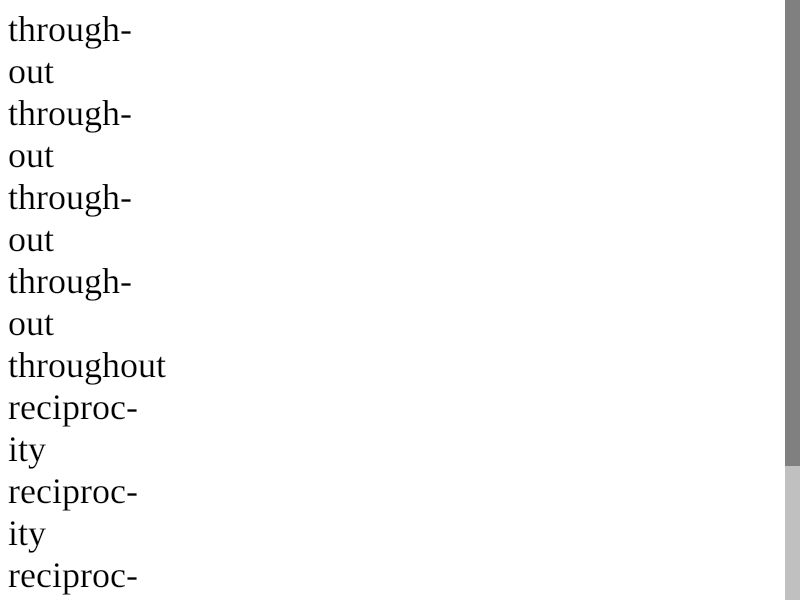
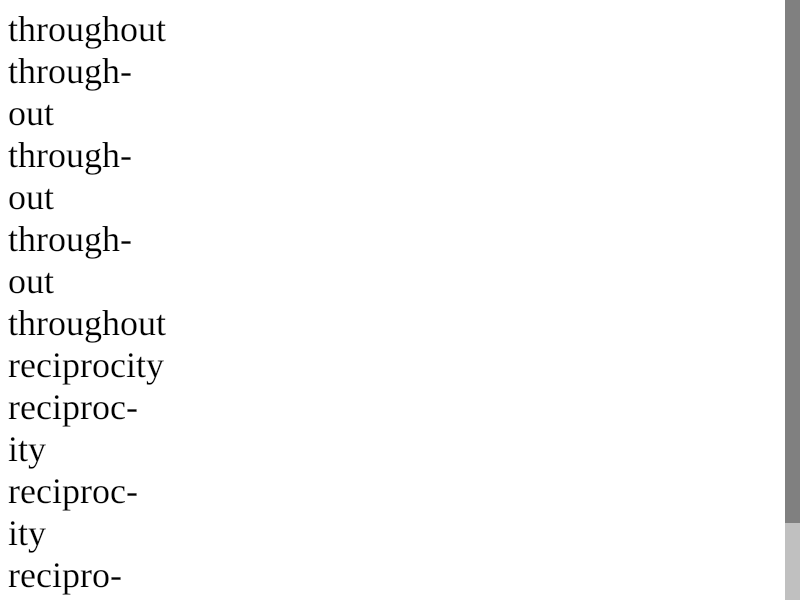
Only hyphenate text for which there is a language specified https://bugs.webkit.org/show_bug.cgi?id=193003
Reviewed by Alex Christensen.

The spec https://drafts.csswg.org/css-text/#hyphens-property says:

"Authors should correctly tag their content’s language (e.g. using the
HTML lang attribute or XML xml:lang attribute) in order to obtain
correct automatic hyphenation."

There's also a dedicated WPT for this:
`imported/w3c/web-platform-tests/css/css-text/hyphens/hyphens-auto-001.html`

This patch makes WebKit follow the spec.

* LayoutTests/TestExpectations:
* LayoutTests/editing/spelling/spelling-marker-includes-hyphen-expected.html:
* LayoutTests/editing/spelling/spelling-marker-includes-hyphen.html:
* LayoutTests/fast/inline/hyphenation-when-overflow-wrap-is-break-word-expected.html:
* LayoutTests/fast/inline/hyphenation-when-overflow-wrap-is-break-word.html:
* LayoutTests/fast/text/simple-line-hyphens-with-text-align.html:
* LayoutTests/fast/text/simple-line-hyphens-with-word-letter-spacing.html:
* LayoutTests/fast/text/simple-line-layout-hyphen-limit-after.html:
* LayoutTests/fast/text/simple-line-layout-hyphen-limit-before.html:
* LayoutTests/fast/text/simple-line-layout-hyphen-limit-lines.html:
* LayoutTests/fast/text/simple-line-layout-hyphenation-constrains.html:
* LayoutTests/platform/gtk/TestExpectations:
* LayoutTests/platform/gtk/fast/text/hyphenate-locale-expected.png:
* LayoutTests/platform/gtk/fast/text/hyphenate-locale-expected.txt:
* LayoutTests/platform/ios/TestExpectations:
* LayoutTests/platform/mac-wk2/TestExpectations:
[…]

diff --git a/LayoutTests/platform/wpe/imported/w3c/web-platform-tests/css/css-text/hyphens/hyphenate-character-002-expected.html b/LayoutTests/platform/wpe/imported/w3c/web-platform-tests/css/css-text/hyphens/hyphenate-character-002-expected.html
@@ -1,0 +1,18 @@
+<!DOCTYPE html>
+<meta charset="utf-8">
+<title>CSS Text reference: hyphenate-character</title>
+<link rel="author" title="Jonathan Kew" href="mailto:jkew@mozilla.com">
+<style>
+div {
+  font: 16px monospace;
+}
+</style>
+
+<p>Test passes if the words below are broken at hyphenation positions but <b>no visible hyphens appear</b>.
+
+<div lang="en">
+implementation<br><br>
+initialization<br><br>
+realization<br><br>
+hyphenation
+</div>

diff --git a/LayoutTests/platform/wpe/fast/inline/hyphenation-when-overflow-wrap-is-break-word-expected.html b/LayoutTests/platform/wpe/fast/inline/hyphenation-when-overflow-wrap-is-break-word-expected.html
@@ -1,0 +1,9 @@
+<style>
+div {
+  font-size: 16px;
+  border: 1px solid green;
+  width: 50px;
+  -webkit-hyphens: auto;
+}
+</style>
+<div lang="en">Autom<br>atic<br>hyphen<br>ation<br>opportu<br>nities<br>overrid<br>e<br>arbitrar<br>y<br>position<br>s</div>

diff --git a/LayoutTests/fast/inline/hyphenation-when-overflow-wrap-is-break-word.html b/LayoutTests/fast/inline/hyphenation-when-overflow-wrap-is-break-word.html
@@ -8,4 +8,4 @@ div {
   overflow-wrap: break-word;
 }
 </style>
-<div>Automatic hyphenation opportunities override arbitrary positions</div>
+<div lang="en">Automatic hyphenation opportunities override arbitrary positions</div>

diff --git a/LayoutTests/fast/inline/hyphenation-when-overflow-wrap-is-break-word-expected.html b/LayoutTests/fast/inline/hyphenation-when-overflow-wrap-is-break-word-expected.html
@@ -6,4 +6,4 @@ div {
   -webkit-hyphens: auto;
 }
 </style>
-<div>Automatic hyphenation opportunities override arbitrary positions</div>
+<div lang="en">Automatic hyphenation opportunities override arbitrary positions</div>

diff --git a/LayoutTests/platform/wpe/fast/text/simple-line-layout-hyphenation-constrains-expected.html b/LayoutTests/platform/wpe/fast/text/simple-line-layout-hyphenation-constrains-expected.html
@@ -1,10 +1,9 @@
 <!DOCTYPE html>
-<html lang="en">
+<html>
 <head>
 <style>
 div {
   display: inline-block;
-  -webkit-hyphens: auto;
   width: 43px;
   margin-right: 150px;
   vertical-align: top;

diff --git a/LayoutTests/fast/text/simple-line-layout-hyphen-limit-before.html b/LayoutTests/fast/text/simple-line-layout-hyphen-limit-before.html
@@ -1,5 +1,5 @@
 <!DOCTYPE html>
-<html>
+<html lang="en-US">
 <head>
 <title>This tests that simple and normal line layout produce the same lines with hyphenate-limit-before</title>
 <style>

diff --git a/LayoutTests/fast/text/simple-line-hyphens-with-text-align.html b/LayoutTests/fast/text/simple-line-hyphens-with-text-align.html
@@ -1,6 +1,6 @@
 <!DOCTYPE html>
 <meta name="fuzzy" content="maxDifference=86-246; totalPixels=1099-1687" />
-<html>
+<html lang="en-US">
 <head>
 <style>
 div {

diff --git a/LayoutTests/editing/spelling/spelling-marker-includes-hyphen-expected.html b/LayoutTests/editing/spelling/spelling-marker-includes-hyphen-expected.html
@@ -1,5 +1,5 @@
 <!DOCTYPE html>
-<html>
+<html lang="en">
 <head>
 <style>
 @font-face {

diff --git a/LayoutTests/editing/spelling/spelling-marker-includes-hyphen.html b/LayoutTests/editing/spelling/spelling-marker-includes-hyphen.html
@@ -1,5 +1,5 @@
 <!DOCTYPE html>
-<html>
+<html lang="en">
 <head>
 <style>
 @font-face {

diff --git a/LayoutTests/fast/text/simple-line-hyphens-with-word-letter-spacing.html b/LayoutTests/fast/text/simple-line-hyphens-with-word-letter-spacing.html
@@ -1,5 +1,5 @@
 <!DOCTYPE html>
-<html>
+<html lang="en-US">
 <head>
 <style>
 div {

diff --git a/LayoutTests/fast/text/simple-line-layout-hyphen-limit-after.html b/LayoutTests/fast/text/simple-line-layout-hyphen-limit-after.html
@@ -1,5 +1,5 @@
 <!DOCTYPE html>
-<html>
+<html lang="en-US">
 <head>
 <style>
 div {

diff --git a/LayoutTests/fast/text/simple-line-layout-hyphen-limit-lines.html b/LayoutTests/fast/text/simple-line-layout-hyphen-limit-lines.html
@@ -1,5 +1,5 @@
 <!DOCTYPE html>
-<html>
+<html lang="en-US">
 <head>
 <style>
 div {
